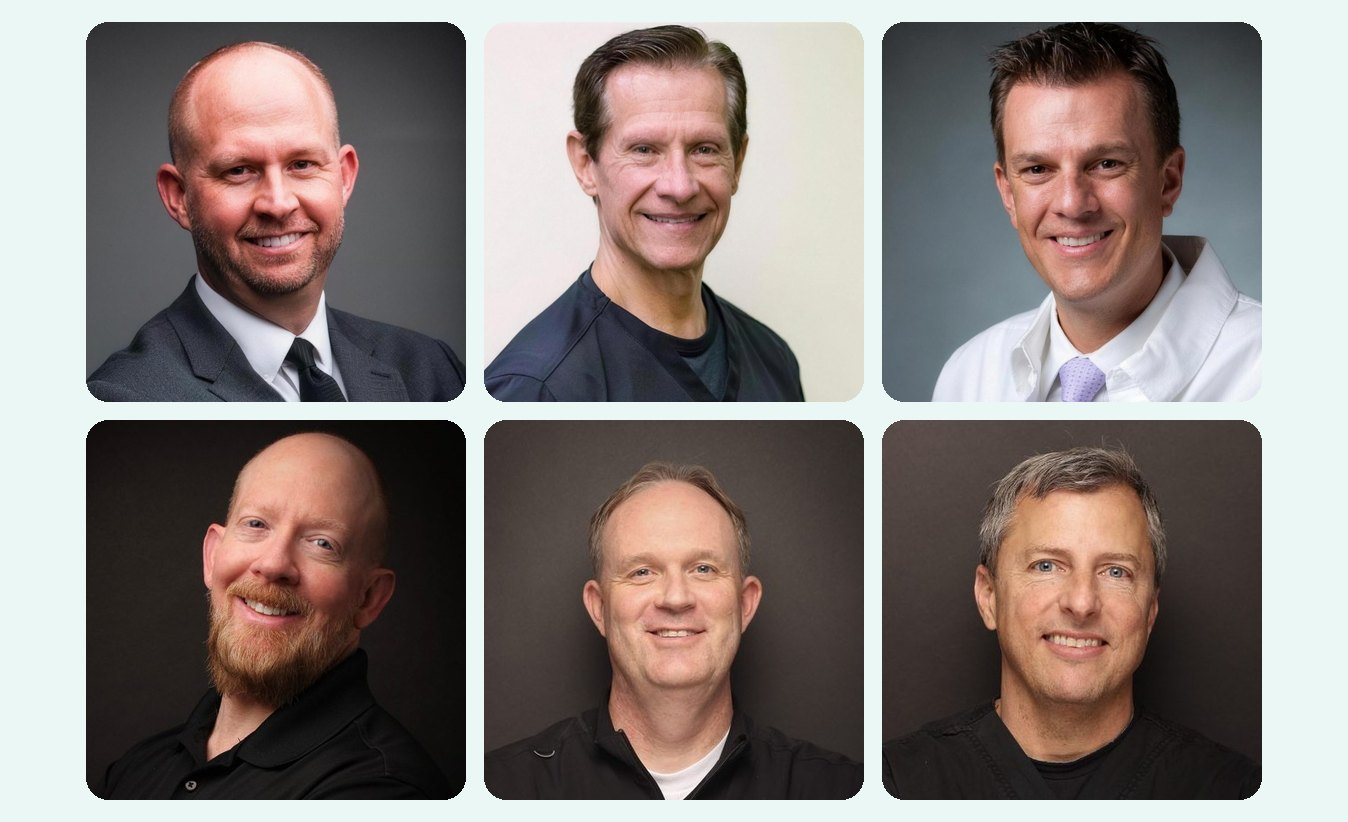
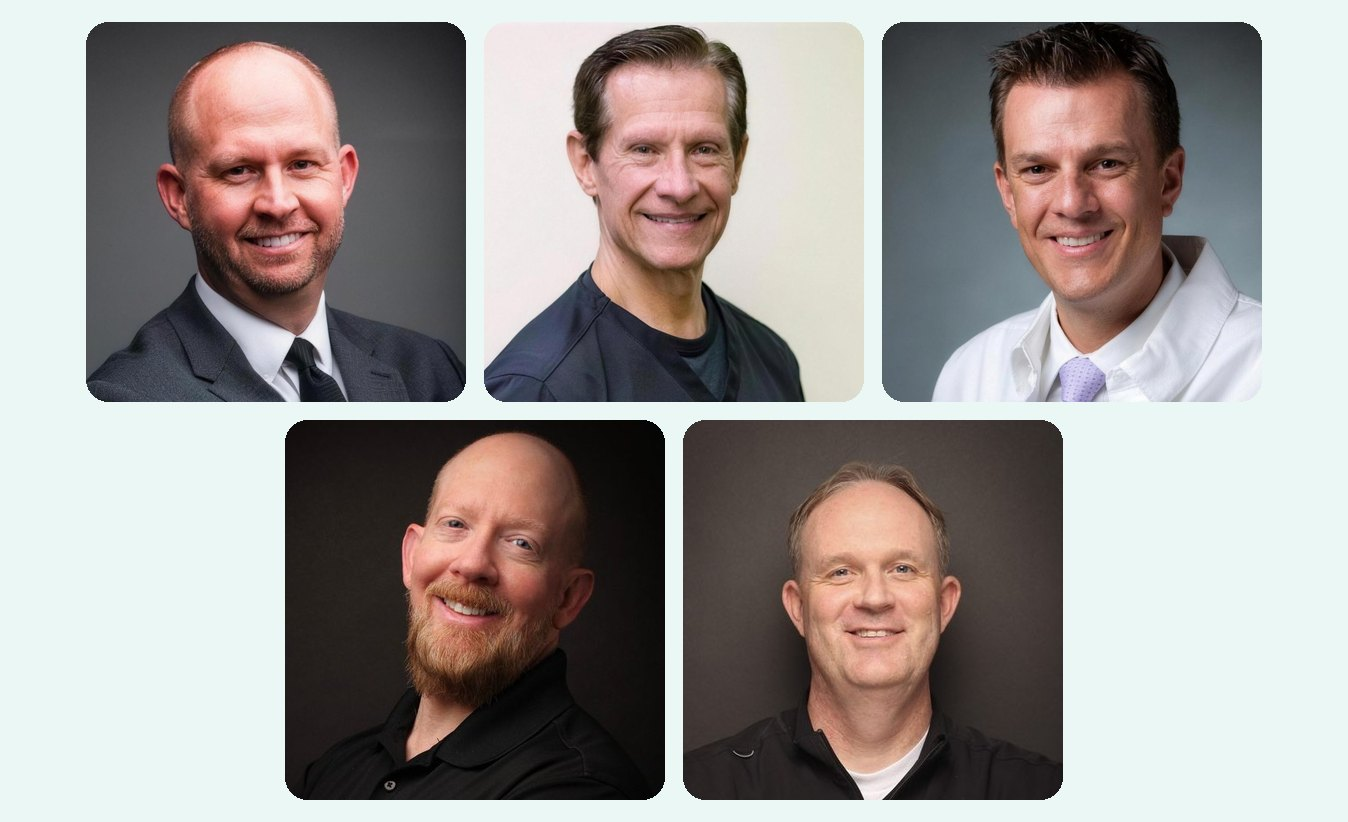
Remove Dr. Morneau from the site: he no longer works at the practice
Per Dustin. Scrubbed everywhere, not just the obvious places:

- /dr-joseph-morneau retired, with a 301 to /meet-the-doctors so anyone holding
  the old link lands somewhere useful instead of a 404.
- His card removed from meet-the-doctors and from the Horizon City location page,
  and his name dropped from the meet-the-doctors meta description.
- Headcount copy corrected in three places that would otherwise have contradicted
  the page: "a team of six orthodontists" and "Six licensed orthodontists" on
  about, "Six orthodontists, one standard" on meet-the-doctors, plus the collage
  alt text. All now five.
- doctors-collage.jpg regenerated from five headshots; the short second row centres
  itself, so the grid still reads deliberately.
- His headshots moved to images/_retired/ and his entries removed from
  make_headshots.py, make_collage.py, make_locations.py and fix_meta.py, so
  regenerating any of those cannot bring him back.
- The TODO chip asking the office whether he was still practising is gone; that
  question is answered.

Verified: zero occurrences of "morneau" anywhere in the built site, 53 pages,
5 doctor headshots shipped, no links to the retired page, and he is out of the
sitemap.

diff --git a/meet-the-doctors.html b/meet-the-doctors.html
@@ -1,11 +1,11 @@
 <!DOCTYPE html>
 <html lang="en"><head><meta charset="UTF-8"><meta name="viewport" content="width=device-width,initial-scale=1">
 <title>Meet Our El Paso Orthodontists | Smile 4 Less</title>
-<meta name="description" content="Meet the licensed orthodontists of Smile 4 Less in El Paso: Drs. Curtis, Tipton, Robinson, Cloward, Morneau and Coles. Three locations.">
+<meta name="description" content="Meet the licensed orthodontists of Smile 4 Less in El Paso: Drs. Curtis, Tipton, Robinson, Cloward and Coles. Three locations.">
 <link rel="canonical" href="https://www.smile4lessbraces.com/meet-the-doctors">
 <meta name="theme-color" content="#10211F">
 <meta property="og:site_name" content="Smile 4 Less Orthodontics">
-<meta property="og:title" content="Meet Our El Paso Orthodontists | Smile 4 Less"><meta property="og:description" content="Meet the licensed orthodontists of Smile 4 Less in El Paso: Drs. Curtis, Tipton, Robinson, Cloward, Morneau and Coles. Three locations."><meta property="og:type" content="website"><meta property="og:url" content="https://www.smile4lessbraces.com/meet-the-doctors"><meta property="og:image" content="https://www.smile4lessbraces.com/images/doctors-collage.jpg">
+<meta property="og:title" content="Meet Our El Paso Orthodontists | Smile 4 Less"><meta property="og:description" content="Meet the licensed orthodontists of Smile 4 Less in El Paso: Drs. Curtis, Tipton, Robinson, Cloward and Coles. Three locations."><meta property="og:type" content="website"><meta property="og:url" content="https://www.smile4lessbraces.com/meet-the-doctors"><meta property="og:image" content="https://www.smile4lessbraces.com/images/doctors-collage.jpg">
 <meta name="twitter:card" content="summary_large_image">
 
 <link rel="icon" href="/images/favicon.ico?v=24418b47" sizes="any"><link rel="icon" type="image/png" sizes="16x16" href="/images/favicon-16.png?v=6dea631d"><link rel="icon" type="image/png" sizes="32x32" href="/images/favicon-32.png?v=ddd15e18">
@@ -182,21 +182,19 @@ body.mm-lock{overflow:hidden}
     <p class="lead">Every Smile 4 Less treatment plan is designed and supervised by a licensed orthodontist, a dentist with two to three extra years of specialty training. Six of them, across three El Paso offices. Here's who you'll meet.</p>
     <div class="btns"><a class="btn teal" href="/free-consultation">Schedule a Free Consultation</a><a class="btn lineT" href="/meet-the-team">Meet the team</a></div>
   </div>
-  <img src="/images/doctors-collage.jpg?v=80e1dd5d" alt="The orthodontists of Smile 4 Less" style="height:auto;object-fit:contain;background:var(--mist)" width="1348" height="822">
+  <img src="/images/doctors-collage.jpg?v=a25298ff" alt="The orthodontists of Smile 4 Less" style="height:auto;object-fit:contain;background:var(--mist)" width="1348" height="822">
 </div></section>
 
 <section><div class="wrap">
-  <div class="center"><span class="eyebrow">The doctors</span><h2 class="sec">Six orthodontists, one standard</h2><p class="lead">Members of the American Association of Orthodontists. Trained at UCLA, Baylor, Washington University, Saint Louis University, LSU, Nova Southeastern, and more. Good with nervous kids.</p></div>
+  <div class="center"><span class="eyebrow">The doctors</span><h2 class="sec">Five orthodontists, one standard</h2><p class="lead">Members of the American Association of Orthodontists. Trained at UCLA, Baylor, Washington University, Saint Louis University, LSU, Nova Southeastern, and more. Good with nervous kids.</p></div>
   <div class="docs">
     <a class="doc" href="/dr-dustin-coles"><div class="ph"><img src="/images/doctors/dr-coles.jpg?v=7dd13d8e" alt="Dr. Dustin Coles, orthodontist" loading="lazy" width="720" height="960"></div><div class="b"><h3>Dr. Dustin Coles</h3><div class="cred">DDS, MSD · Orthodontist</div><p>20,000+ smiles in 20+ years. Award-winning Invisalign provider, author, educator, and the reason Smile 4 Less exists.</p><div class="seen-at"><b>Sees patients at:</b> West El Paso</div></div></a>
     <a class="doc" href="/dr-alan-curtis"><div class="ph"><img src="/images/doctors/dr-curtis.jpg?v=abe9586d" alt="Dr. Alan Curtis, orthodontist" loading="lazy" width="720" height="960"></div><div class="b"><h3>Dr. Alan Curtis</h3><div class="cred">DDS, MS · Orthodontist</div><p>UCLA dental grad, Baylor-trained, adjunct faculty at A.T. Still University, and fluent in Spanish.</p><div class="seen-at"><b>Sees patients at:</b> East El Paso</div></div></a>
     <a class="doc" href="/dr-tom-tipton"><div class="ph"><img src="/images/doctors/dr-tipton.jpg?v=fc43b6b4" alt="Dr. Tom Tipton, orthodontist" loading="lazy" width="720" height="960"></div><div class="b"><h3>Dr. Tom Tipton</h3><div class="cred">Orthodontist</div><p>Washington University and University of Pittsburgh trained. Raised in a military family, and a longtime humanitarian volunteer.</p><div class="seen-at"><b>Sees patients at:</b> East &amp; West El Paso</div></div></a>
     <a class="doc" href="/dr-daniel-cloward"><div class="ph"><img src="/images/doctors/dr-cloward.jpg?v=5be2cd68" alt="Dr. Daniel Cloward, orthodontist" loading="lazy" width="429" height="573"></div><div class="b"><h3>Dr. Daniel Cloward</h3><div class="cred">DMD, MSD, MPH · Orthodontist</div><p>Three advanced degrees and a public-health mindset. Bilingual in English and Spanish.</p><div class="seen-at"><b>Sees patients at:</b> Horizon City</div></div></a>
     <a class="doc" href="/dr-paul-robinson"><div class="ph"><img src="/images/doctors/dr-robinson.jpg?v=0ba04b9b" alt="Dr. Paul Robinson, orthodontist" loading="lazy" width="498" height="663"></div><div class="b"><h3>Dr. Paul Robinson</h3><div class="cred">DMD · Orthodontist</div><p>Craniofacial fellowship in Chicago, University of Nebraska residency, and patients aged five to 70.</p><div class="seen-at"><b>Sees patients at:</b> Horizon City</div></div></a>
-    <a class="doc" href="/dr-joseph-morneau"><div class="ph"><img src="/images/doctors/dr-morneau.jpg?v=62a0cbb4" alt="Dr. Joseph Morneau, orthodontist" loading="lazy" width="417" height="555"></div><div class="b"><h3>Dr. Joseph Morneau</h3><div class="cred">DMD · Orthodontist</div><p>U.S. Navy veteran, author of <em>Orthodontics 101</em>, and former chief of orthodontics for a pediatric residency.</p><div class="seen-at"><b>Sees patients at:</b> Horizon City</div></div></a>
   </div>
   <p class="todo" style="margin-top:22px">TODO (office): we removed the "board-certified" wording and the American Board of Orthodontics seal, because none of the bios you sent claim a current ABO diplomate status. If Dr. Curtis (or anyone) is currently board certified, send confirmation and we'll put both back.</p>
-  <p class="todo" style="margin-top:10px">TODO (office): Dr. Morneau was not included in the bios doc Charlotte sent. Confirm he is still with the practice; if not, we'll remove his page and card.</p>
 </div></section>
 
 <section class="mist"><div class="wrap split">

diff --git a/about.html b/about.html
@@ -205,7 +205,7 @@ body.mm-lock{overflow:hidden}
   </ul>
 
   <h2>Who we are</h2>
-  <p>Smile 4 Less is a team of six orthodontists and a bilingual staff across three offices: East El Paso on Montana, West El Paso on Remcon Circle, and Horizon City on Eastlake. Our patients are mostly kids and teens, plus a growing number of adults who decided it's finally their turn. Many of our families have roots on both sides of the border, and a lot of them come to us from Fort Bliss.</p>
+  <p>Smile 4 Less is a team of five orthodontists and a bilingual staff across three offices: East El Paso on Montana, West El Paso on Remcon Circle, and Horizon City on Eastlake. Our patients are mostly kids and teens, plus a growing number of adults who decided it's finally their turn. Many of our families have roots on both sides of the border, and a lot of them come to us from Fort Bliss.</p>
   <p>We've earned hundreds of five-star Google reviews, and the things patients mention most are the things we care about most: no waiting, clear explanations, kind staff, and prices that fit.</p>
 
   <h2>In the community</h2>
@@ -218,7 +218,7 @@ body.mm-lock{overflow:hidden}
 <section class="mist"><div class="wrap">
   <div class="center"><span class="eyebrow">Get to know us</span><h2 class="sec">Keep exploring</h2></div>
   <div class="grid3">
-    <a class="card" href="/meet-the-doctors"><img src="/images/doctors-collage.jpg?v=80e1dd5d" alt="The six Smile 4 Less orthodontists" loading="lazy" width="1348" height="822"><div class="b"><h3>Meet the Doctors</h3><p>Six licensed orthodontists across three offices.</p><span class="link">Meet them →</span></div></a>
+    <a class="card" href="/meet-the-doctors"><img src="/images/doctors-collage.jpg?v=a25298ff" alt="The Smile 4 Less orthodontists" loading="lazy" width="1348" height="822"><div class="b"><h3>Meet the Doctors</h3><p>Five licensed orthodontists across three offices.</p><span class="link">Meet them →</span></div></a>
     <a class="card" href="/meet-the-team"><img src="/images/team-collage.jpg?v=58889674" alt="The Smile 4 Less team" loading="lazy" width="1581" height="964"><div class="b"><h3>Meet the Team</h3><p>The bilingual crew patients thank by name in reviews.</p><span class="link">Say hi →</span></div></a>
     <a class="card" href="/reviews"><img src="/images/patients/debond-teen-boy-letterboard-braces-removed-pointing.jpg?v=3d7c78c8" alt="Happy patient with braces removed sign" loading="lazy" style="object-position:50% 34%" width="1080" height="1080"><div class="b"><h3>Patient Reviews</h3><p>Hundreds of five-star Google reviews, in their own words.</p><span class="link">Read reviews →</span></div></a>
   </div>

diff --git a/appointment-request-confirmation.html b/appointment-request-confirmation.html
@@ -190,7 +190,7 @@ body.mm-lock{overflow:hidden}
   <div class="grid3">
     <a class="card" href="/new-patients"><img src="/images/step-1-consult.jpg?v=b5e01ae1" alt="First visit at Smile 4 Less" loading="lazy" width="800" height="600"><div class="b"><h3>What to expect</h3><p>What happens at your first visit, what to bring, and the forms you can fill out ahead of time.</p><span class="link">New patient info →</span></div></a>
     <a class="card" href="/financing"><img src="/images/step-2-plan.jpg?v=4e29762f" alt="Reviewing a payment plan" loading="lazy" width="800" height="533"><div class="b"><h3>Financing &amp; insurance</h3><p>How $99 down and $99 a month works, and what your insurance might cover.</p><span class="link">See financing →</span></div></a>
-    <a class="card" href="/meet-the-doctors"><img src="/images/doctors-collage.jpg?v=80e1dd5d" alt="The Smile 4 Less orthodontists" loading="lazy" width="1348" height="822"><div class="b"><h3>Meet the doctors</h3><p>The orthodontists you'll be seeing, and which office each one calls home.</p><span class="link">Meet the team →</span></div></a>
+    <a class="card" href="/meet-the-doctors"><img src="/images/doctors-collage.jpg?v=a25298ff" alt="The Smile 4 Less orthodontists" loading="lazy" width="1348" height="822"><div class="b"><h3>Meet the doctors</h3><p>The orthodontists you'll be seeing, and which office each one calls home.</p><span class="link">Meet the team →</span></div></a>
   </div>
 </div></section>
 <script>

diff --git a/horizon-city.html b/horizon-city.html
@@ -196,7 +196,6 @@ body.mm-lock{overflow:hidden}
   <div class="docs">
     <div class="doc"><div class="ph"><img src="/images/doctors/dr-cloward.jpg?v=5be2cd68" alt="Dr. Daniel Cloward, orthodontist" loading="lazy" width="429" height="573"></div><div class="b"><h3>Dr. Daniel Cloward</h3><div class="cred">DMD, MSD, MPH · Orthodontist</div><p>Three advanced degrees and a public-health mindset. Bilingual in English and Spanish.</p></div></div>
     <div class="doc"><div class="ph"><img src="/images/doctors/dr-robinson.jpg?v=0ba04b9b" alt="Dr. Paul Robinson, orthodontist" loading="lazy" width="498" height="663"></div><div class="b"><h3>Dr. Paul Robinson</h3><div class="cred">DMD · Orthodontist</div><p>Craniofacial fellowship in Chicago and a University of Nebraska residency.</p></div></div>
-    <div class="doc"><div class="ph"><img src="/images/doctors/dr-morneau.jpg?v=62a0cbb4" alt="Dr. Joseph Morneau, orthodontist" loading="lazy" width="417" height="555"></div><div class="b"><h3>Dr. Joseph Morneau</h3><div class="cred">DMD · Orthodontist</div><p>U.S. Navy veteran and author of <em>Orthodontics 101</em>.</p></div></div>
   </div>
 </div></section>
 

diff --git a/index.html b/index.html
@@ -403,7 +403,7 @@ body.mm-lock{overflow:hidden}
     </ul>
     <a class="btn lineT" href="/meet-the-doctors">Meet the Team</a>
   </div>
-  <img src="/images/doctors-collage.jpg?v=80e1dd5d" alt="The orthodontists of Smile 4 Less" style="height:auto" width="1348" height="822">
+  <img src="/images/doctors-collage.jpg?v=a25298ff" alt="The orthodontists of Smile 4 Less" style="height:auto" width="1348" height="822">
 </div></section>
 
 <!-- SERVICES -->
